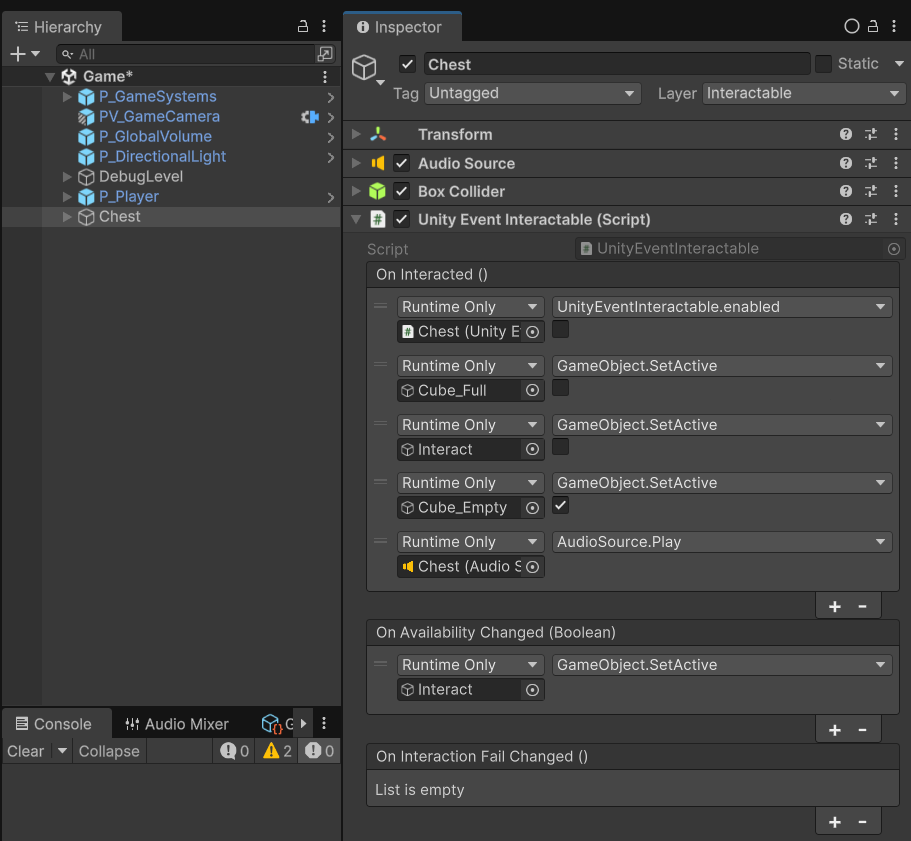
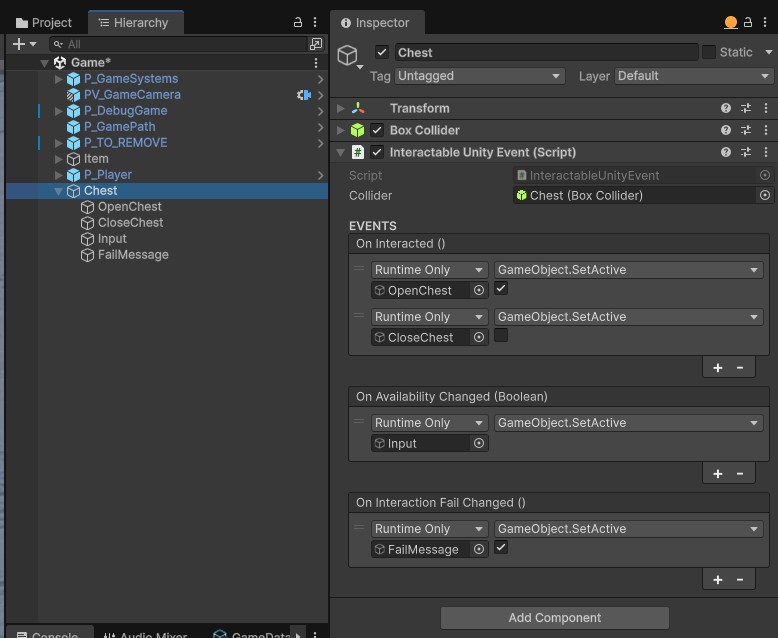
Update README

diff --git a/Runtime/Interactables/InteractableUnityEvent.cs b/Runtime/Interactables/InteractableUnityEvent.cs
@@ -19,16 +19,19 @@ namespace OneM.InteractableSystem
         /// <summary>
         /// Event fired when interacted with this object.
         /// </summary>
+        [Header("EVENTS")]
         public UnityEvent OnInteracted;
 
         /// <summary>
         /// Event fired when this object availability is changed.
         /// </summary>
+        [Space]
         public UnityEvent<bool> OnAvailabilityChanged;
 
         /// <summary>
         /// Event fired when interacted with this object fails.
         /// </summary>
+        [Space]
         public UnityEvent OnInteractionFailChanged;
 
         private void Reset() => Collider = GetComponent<Collider>();

diff --git a/README.md b/README.md
@@ -4,23 +4,23 @@ System for generic Gameplay Interactions.
 
 ## How To Use
 
-Create a [IInteractable](/Runtime/IInteractable.cs) implementations and use [Interactor](/Runtime/Interactor.cs) component to interact with.
+Create a [IInteractable](/Runtime/IInteractable.cs) implementations and use any [AbstractInteractor implementation](/Runtime/Interactors) to interact with.
 
-### Using Interactor
+### Using an Interactor
 
-Attach [Interactor](/Runtime/Interactor.cs) inside your Player or any other object able to interact with [IInteractable](/Runtime/IInteractable.cs) implementations:
+Attach a [BoxInteractor](/Runtime/Interactors/BoxInteractor.cs) or a [SphereInteractor](/Runtime/Interactors/SphereInteractor.cs) inside your Player or any other object able to interact with [IInteractable](/Runtime/IInteractable.cs) implementations:
 
-![Interactor](/Docs~/Interactor.png)
+![Interactor](/Docs~/SphereInteractor.png)
 
 ### Using IInteractable implementations
 
 Create a component implementing `IInteractable`. 
 
-Alternatively, if you want to quickly prototype, use the [UnityEventInteractable](/Runtime/UnityEventInteractable.cs) component and set its Unity Events:
+Alternatively, if you want to quickly prototype, use the [InteractableUnityEvent](/Runtime/Interactables/InteractableUnityEvent.cs) component and set its Unity Events:
 
-![Unity Event Interactable](/Docs~/UnityEventInteractable.png).
+![Interactable Unity Event ](/Docs~/InteractableUnityEvent.png).
 
-You'll receive callbacks when `Interactor` gets close.
+You'll receive callbacks when an Interactor gets close.
 
 ## Installation
 
